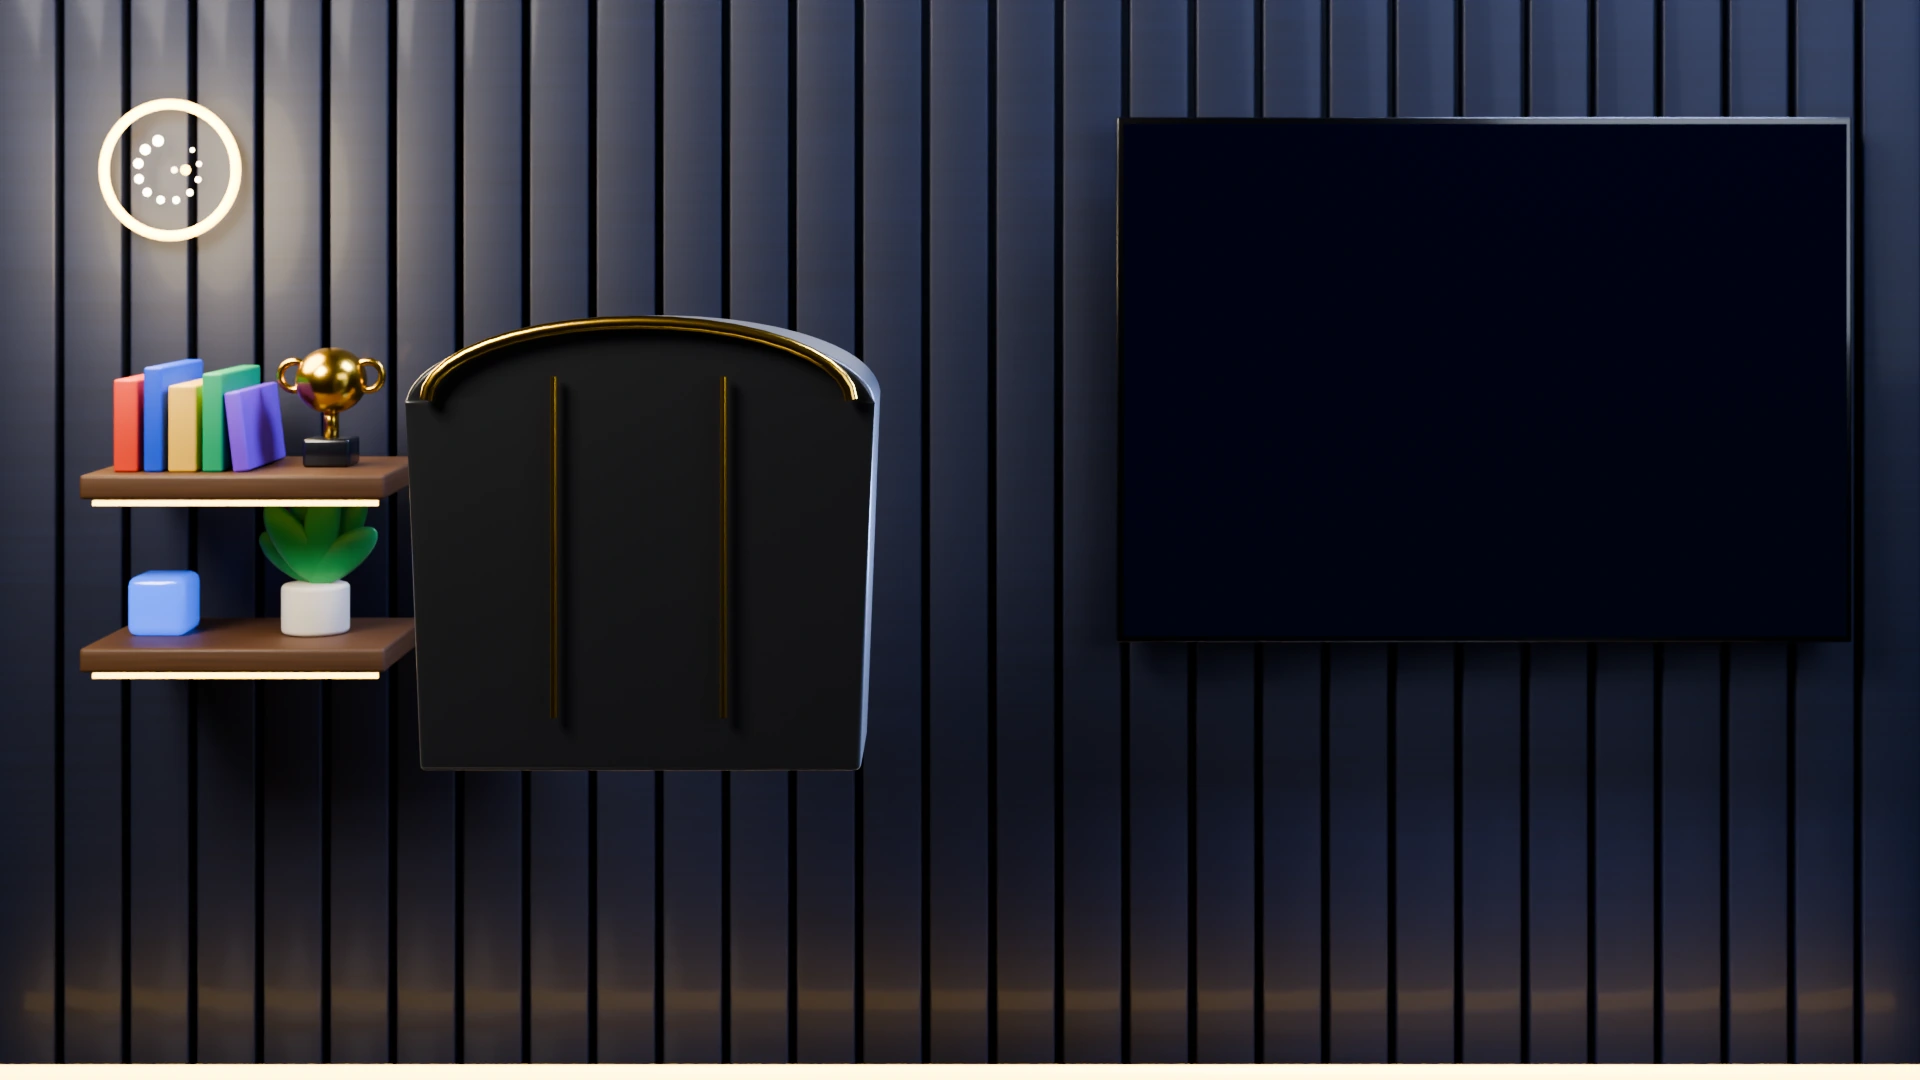
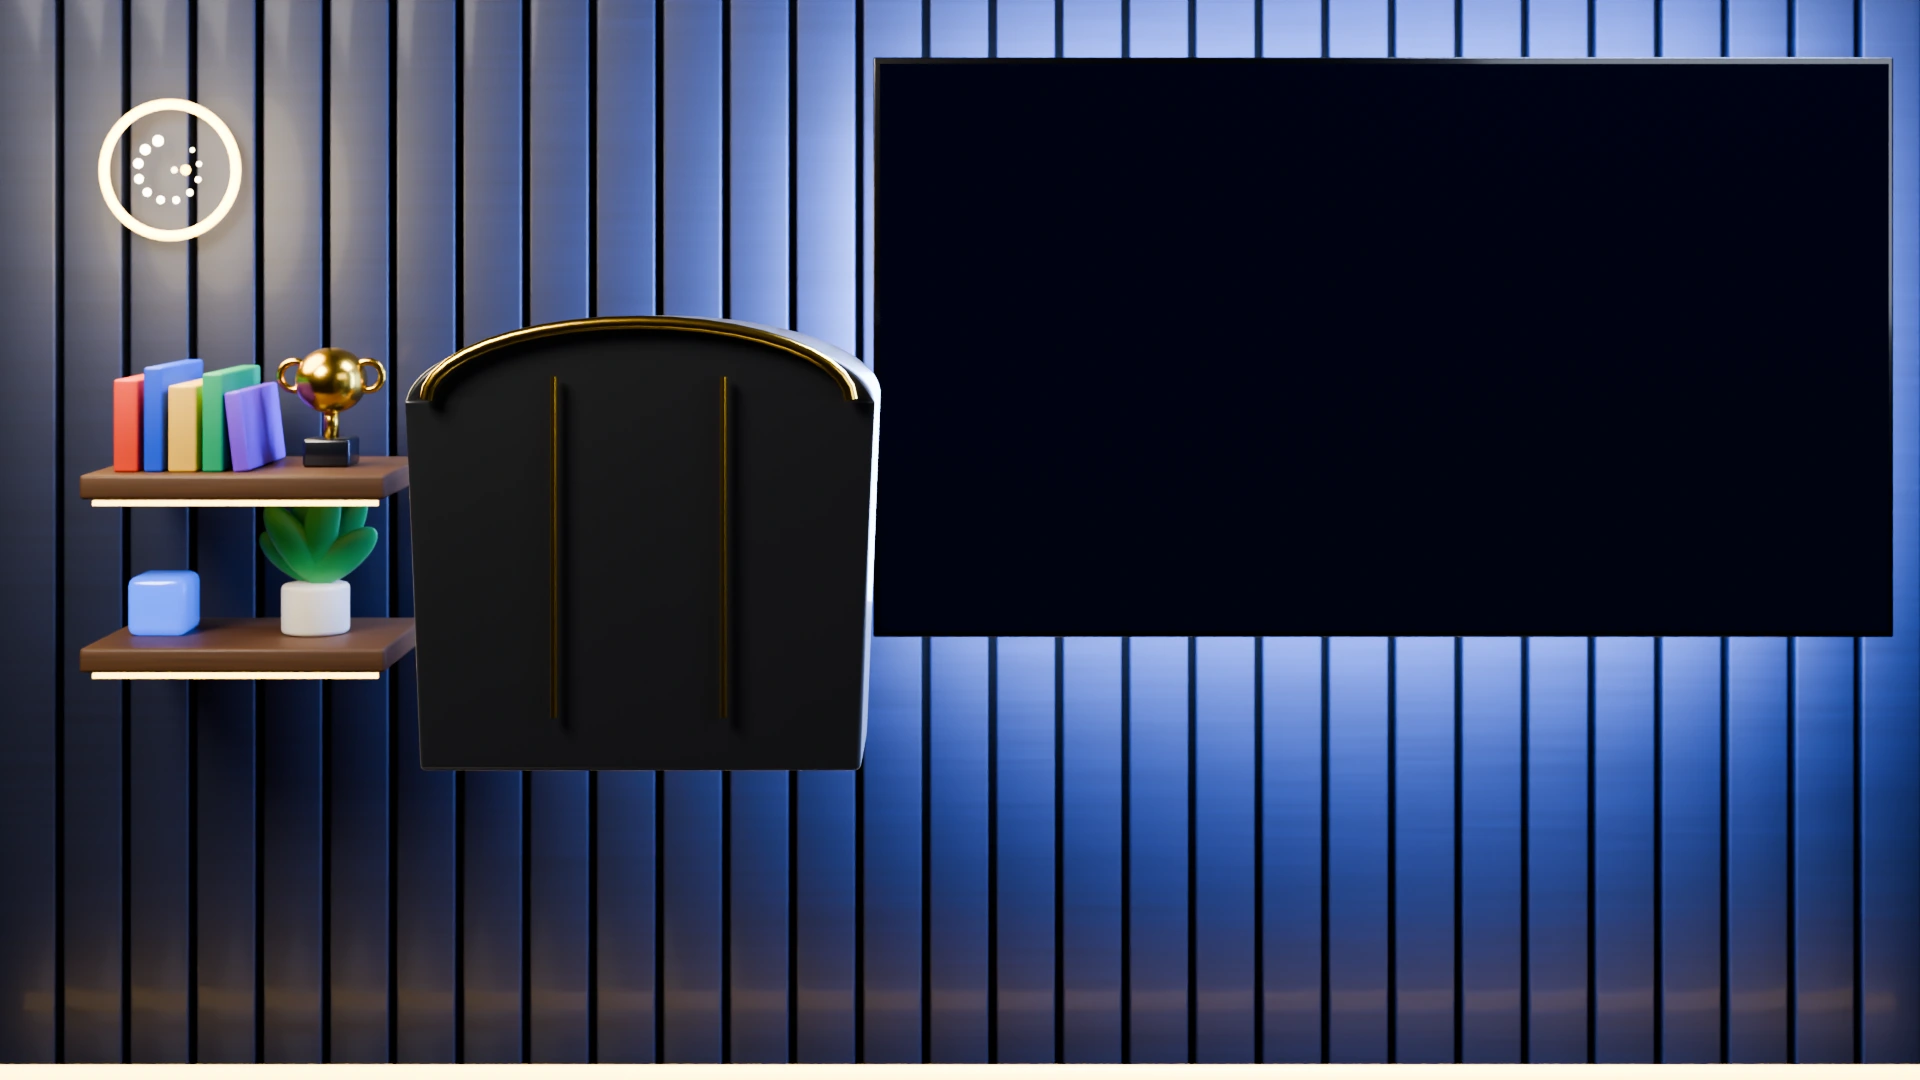
Studio (owner 2026-11-25): a wide boardroom smart screen off the wall with a neon glow behind it, pictures and words filling it; the laptop in front of Goli facing him; photo cards and metaphors keep clear of Goli; plates re-rendered
Claude-Session: https://claude.ai/code/session_012YkxsZbhC55B2CzzNBMQAJ

diff --git a/src/golide_engine/edit/compose.py b/src/golide_engine/edit/compose.py
@@ -460,6 +460,8 @@ class Composer:
         fw = 940 if self.fmt == "short" else 1300
         fh = min(fw * ratio, 760 if self.fmt == "short" else 760)
         fx, fy = (self.w - fw) / 2, (self.cy - fh / 2 - 20)
+        if self.zone and self.fmt == "long":     # Goli beside it: the card keeps to the left, clear of his arm
+            fx = 90
         img = self.asset(data["image"])
         domain = re.sub(r"^https?://(www\.)?", "", str(data.get("url", ""))).split("/")[0]
         inner = (f'<div class="frame" id="{sid}-f" style="left:{fx:.0f}px;top:{fy:.0f}px;width:{fw}px;height:{fh:.0f}px;'
@@ -911,12 +913,12 @@ class Composer:
         at = float(data.get("at", 1.0))
         args = {k: v for k, v in data.items() if k not in ("kind", "at", "goli_zone", "heading")}
         svg, tweens, cues = metaphors.DRAW[kind](sid, at, **args)
-        width = 1640 if self.fmt == "long" else 1000      # drawn large: the idea fills the proof area
+        width = (1440 if self.zone else 1640) if self.fmt == "long" else 1000     # drawn large: the idea fills the proof area
         height = width * metaphors.H / metaphors.W
         head = (f'<div class="label" style="position:absolute;left:0;right:0;top:{max(40, self.cy - height / 2 - 60):.0f}px;'
                 f'text-align:center;font-size:36px">{_e(data["heading"])}</div>') if data.get("heading") else ""
         inner = (f'{head}<svg viewBox="0 0 {metaphors.W} {metaphors.H}" width="{width}" height="{height:.0f}" '
-                 f'style="position:absolute;left:{(self.w - width) / 2:.0f}px;top:{self.cy - height / 2 + 20:.0f}px;overflow:visible">'
+                 f'style="position:absolute;left:{(60 if self.zone and self.fmt == "long" else (self.w - width) / 2):.0f}px;top:{self.cy - height / 2 + 20:.0f}px;overflow:visible">'
                  f'{svg}</svg>')
         self.scene(sid, t0, dur, inner)
         self.entrance(sid, t0, how)
@@ -1408,20 +1410,23 @@ class Composer:
         if place in ("full", "studio") and data.get("words") and data.get("outro") != "end_card" and not data.get("subscribe"):
             spans = "".join(f'<span class="word{" gold" if w_["text"].lower().strip(".,!?") == str(data.get("punch", "")).lower() else ""}" '
                             f'id="{sid}-w{i}">{_e(w_["text"])}</span>' for i, w_ in enumerate(data["words"]))
-            if place == "studio":       # the words appear on the studio's video wall
-                wx, wy, ww, wf = studio.layout(self.fmt)["words"]
-                title = (f'<div id="{sid}-scr" style="position:absolute;left:{wx}px;width:{ww}px;top:{wy}px">'
+            if place == "studio":       # the words appear on the studio's screen, filling it (owner 2026-11-25)
+                x0, y0, x1, y1 = studio.screen_rect(self.fmt)
+                wf = 92 if self.fmt == "short" else 84
+                title = (f'<div id="{sid}-scr" style="position:absolute;left:{x0 + 60:.0f}px;width:{x1 - x0 - 120:.0f}px;'
+                         f'top:{y0:.0f}px;height:{y1 - y0:.0f}px;display:flex;align-items:center">'
                          f'<div class="title" style="font-size:{wf}px;line-height:1.05">{spans}</div></div>')
             else:
                 title = (f'<div style="position:absolute;left:{self.w * 0.52:.0f}px;right:110px;top:50%;margin-top:-170px">'
                          f'<div class="title" style="font-size:96px">{spans}</div></div>')
         if place == "studio" and data.get("screen") and not title:
             # 2026-11-20 (owner): the video wall shows a real picture of the story, never an empty wall or headline
-            wx, wy, ww, wf = studio.layout(self.fmt)["words"]
+            # owner 2026-11-25: the picture fills the boardroom screen (a slim margin, so LIVE and the mark stay)
+            x0, y0, x1, y1 = studio.screen_rect(self.fmt)
             src = self.asset(data["screen"])
-            title = (f'<div id="{sid}-scr" style="position:absolute;left:{wx - 10}px;width:{ww + 20}px;top:{wy - 14}px;'
-                     f'height:{int(ww * 0.56)}px;border-radius:14px;overflow:hidden;box-shadow:0 0 0 2px rgba(232,194,104,.45)">'
-                     f'<img src="{src}" style="width:100%;height:100%;object-fit:cover"></div>')
+            title = (f'<div id="{sid}-scr" style="position:absolute;left:{x0 + 22:.0f}px;width:{x1 - x0 - 44:.0f}px;top:{y0 + 56:.0f}px;'
+                     f'height:{y1 - y0 - 100:.0f}px;border-radius:10px;overflow:hidden">'
+                     f'<img src="{src}" style="width:100%;height:100%;object-fit:cover;object-position:50% 0"></div>')
         front = (studio.front(sid, self.fmt, self.asset) if place == "studio" else studio.front(sid, "lower", self.asset)
                  if place == "lower" else "")
         floor = (studio.layout(self.fmt)["desk_y"] if place == "studio" else studio.layout("lower")["desk_y"]

diff --git a/src/golide_engine/goli3d/studio_model.py b/src/golide_engine/goli3d/studio_model.py
@@ -218,18 +218,28 @@ area("uplight", ((f0.x + f1.x) / 2, y_wall - 0.5, f0.z - 0.1), 900 if FMT != "lo
      ((f0.x + f1.x) / 2, y_wall, f0.z + 3), back_col, sy=0.2)
 
 # the video wall: a big flat TV with a slim bezel; the screen is left plain (content is laid on in the video)
+# owner 2026-11-25: a boardroom smart screen, wide and big enough that a page reads on it (the old one was a 32-inch
+# TV), standing off the wall on its mount with a neon glow behind it so it never looks stuck to the wall
+TV_PX = {"long": (880, 64, 1888, 631), "short": (40, 96, 1040, 659)}
 screen_px = None
 if LAY["wall"]:
-  x0, y0 = g("wall", 1124, 124); x1, y1 = g("wall", 1846, 636)
-  DT = DW - 0.18
+  x0, y0, x1, y1 = TV_PX[FMT]
+  DT = DW - 0.6
   a, b = P(x0, y0, DT), P(x1, y1, DT)
   cx, cz, sw, shh = (a.x + b.x) / 2, (a.z + b.z) / 2, b.x - a.x, a.z - b.z
   bez = 7 * U(DT)                          # a hairline bezel, like a current smart TV
   box((cx, CAM.y + DT + 0.03, cz), (sw + 2 * bez, 0.045, shh + 2 * bez), M["bezel"], back_col, 0.004)
   box((cx, CAM.y + DT + 0.055, cz), (sw + 2 * bez - 0.01, 0.01, shh + 2 * bez - 0.01), M["alu_dark"], back_col, 0.003)  # thin metal edge
   scr = box((cx, CAM.y + DT - 0.0, cz), (sw, 0.01, shh), M["screen"], back_col, 0)
-  box((cx, CAM.y + DT + 0.12, cz), (sw * 0.3, 0.06, shh * 0.3), M["metal"], back_col, 0.01)      # wall mount
-  halo = area("tv_halo", (cx, CAM.y + DT + 0.14, cz), 260, sw * 0.9, (0.25, 0.4, 1.0), (cx, CAM.y + DW + 1, cz), back_col, sy=shh * 0.9)
+  for sx_ in (-1, 1):                     # the mount: two arms from the wall to the screen's back
+      box((cx + sx_ * sw * 0.18, CAM.y + (DT + DW) / 2, cz), (0.06, DW - DT, 0.06), M["metal"], back_col, 0.01)
+  box((cx, CAM.y + DW - 0.03, cz), (sw * 0.42, 0.04, 0.12), M["metal"], back_col, 0.01)
+  # the neon glow behind it: a lit strip round the back edge, and its light washing the wall
+  neon = mat("tvneon", "#5E8BFF", 0.5, emit=14.0, ecolor="#4F7DFF")
+  for (bx, bz, bw, bh) in ((cx, cz + shh / 2 - 0.02, sw - 0.1, 0.025), (cx, cz - shh / 2 + 0.02, sw - 0.1, 0.025),
+                           (cx - sw / 2 + 0.02, cz, 0.025, shh - 0.1), (cx + sw / 2 - 0.02, cz, 0.025, shh - 0.1)):
+      box((bx, CAM.y + DT + 0.075, bz), (bw, 0.02, bh), neon, back_col, 0)
+  halo = area("tv_halo", (cx, CAM.y + DT + 0.12, cz), 900, sw * 0.95, (0.3, 0.45, 1.0), (cx, CAM.y + DW + 1, cz), back_col, sy=shh * 0.95)
   glow = mat("tvglow", "#3D6CFF", 0.5, emit=3.0, ecolor="#2C55E0")
   area("tv_wash", (cx, CAM.y + DT - 0.4, cz), 220, sw, (0.35, 0.5, 1.0), (cx, CAM.y + DT - 3, cz - 1.5), back_col, sy=shh)
   screen_px = [[x0, y0], [x1, y0], [x1, y1], [x0, y1]]
@@ -378,11 +388,12 @@ def desk_point(px, depth_px=0.0):
 
 # laptop: a thin MacBook-style aluminium laptop, used by Goli: the keyboard on his side, the lid's back (with our
 # glowing mark) toward the camera, turned a little toward him so the screen's edge shows
-lp = desk_point(1070 if FMT == "long" else 930, 2)
+# owner 2026-11-25: the laptop is his: in front of him, its screen facing him, the mark on its back to the camera
+lp = desk_point(640, -40)
 lw = 280 * k * du
 ld = lw * 0.68
 lid_h = lw * 0.66
-turn = math.radians(-22 if FMT == "long" else -18)
+turn = math.radians(0)
 lap = bpy.data.objects.new("laptop", None); front_col.objects.link(lap)   # built around its hinge, then placed
 
 
@@ -414,7 +425,7 @@ if SPEC.get("neon_logo"):                    # our mark glowing on the lid's bac
 lap.location = (lp.x, lp.y - ld * 0.2, lp.z)
 lap.rotation_euler = (0, 0, turn)
 # mug (left), with coffee
-mp = desk_point(880, 0) if FMT == "long" else desk_point(360, -110)
+mp = desk_point(1010, 0) if FMT == "long" else desk_point(900, -110)
 mr, mh = 39 * k * du, 96 * k * du
 cyl((mp.x, mp.y, mp.z + mh / 2), mr, mh, M["ceramic"], front_col, bevel=0.006)
 cyl((mp.x, mp.y, mp.z + mh - 0.012), mr * 0.86, 0.01, M["coffee"], front_col)

diff --git a/src/golide_engine/edit/studio.py b/src/golide_engine/edit/studio.py
@@ -72,6 +72,14 @@ def layout(fmt: str) -> dict:
     return LAYOUTS[fmt] if fmt in ("short", "lower") else LAYOUTS["long"]
 
 
+def screen_rect(fmt: str) -> tuple[float, float, float, float]:
+    """The TV screen on the frame (x0, y0, x1, y1), from the rendered set (owner 2026-11-25: the boardroom screen)."""
+    m = plates("short" if fmt == "short" else "long") or {}
+    pts = m.get("screen") or [[1124, 124], [1846, 124], [1846, 636], [1124, 636]]
+    xs, ys = [p[0] for p in pts], [p[1] for p in pts]
+    return min(xs), min(ys), max(xs), max(ys)
+
+
 def lower_back(sid: str, asset=None) -> str:
     """The Short's lower third: a slice of the studio behind Goli while the proof plays on top."""
     m = need("lower")
@@ -112,14 +120,14 @@ def back3d(sid: str, fmt: str, m: dict, asset) -> str:
     """The 3D set behind Goli, with the TV's live content (chart, bars, LIVE) drawn on its screen."""
     L = layout(fmt)
     W, H = L["w"], L["h"]
-    g = 'transform="translate({} {}) scale({})"'.format(*L["wall"])
     # owner 2026-11-25: no decoration chart on the TV ("that nonsensical graph that has no meaning"): only LIVE and
     # the logo; the screen itself shows the real thing being said (editor._screen_pictures)
+    x0, y0, x1, y1 = screen_rect(fmt)
     screen = (f'<svg viewBox="0 0 {W} {H}" width="{W}" height="{H}" style="position:absolute;left:0;top:0">'
-              f'<g {g}><g id="{sid}-wall">'
-              f'<circle cx="1160" cy="160" r="7" fill="#E8462F"/><text x="1176" y="167" font-family="Inter" font-weight="600" '
-              f'font-size="20" fill="#E8462F">LIVE</text>{logo_mark(1806, 594, 40, "#8FA0C8", "#F2C14E")}'
-              f'</g></g><g id="{sid}-neon"></g></svg>')
+              f'<g id="{sid}-wall">'
+              f'<circle cx="{x0 + 30}" cy="{y0 + 30}" r="7" fill="#E8462F"/><text x="{x0 + 46}" y="{y0 + 37}" font-family="Inter" '
+              f'font-weight="600" font-size="20" fill="#E8462F">LIVE</text>{logo_mark(x1 - 36, y1 - 36, 34, "#8FA0C8", "#F2C14E")}'
+              f'</g><g id="{sid}-neon"></g></svg>')
     return _img(PLATES / fmt / "back.webp", [0, 0], asset, W, H) + screen
 
 

diff --git a/CLAUDE.md b/CLAUDE.md
@@ -47,6 +47,13 @@ Owner: Esiah (Lusaka, UTC+2). Direct, no sugar-coating. Studio: studio.golidee.c
   showing gets its own look and view (`editor._object_variety`, glass3d.js screen). Other objects need their name said.
 - Broken screens (owner 2026-11-25): a captured page whose styles did not load, an error/block/bot page, broken
   pictures or a near-empty page is never used (`source_capture.broken_page`); another block takes the beat.
+- Studio set (owner 2026-11-25): a wide boardroom smart screen standing off the wall on its mount with a neon glow behind
+  it (`goli3d/studio_model.py` TV_PX, plates rendered locally or by goli3d-library.yml kind=studio); pictures and
+  words fill it (`studio.screen_rect`). The laptop is in front of Goli, its screen facing him.
+- Shorts = long videos in 9:16 (owner 2026-11-25: "the only difference is framing"): the same blocks and flow; the
+  proof on top, captions under it, Goli standing below (`place: side`), never the desk-and-TV as the default.
+- Chapter cards (owner 2026-11-25): leave the moment their stage is named (1-2 s, `editor._chapter_end`), smooth exit.
+- Small neon edge on photo cards, steps on a page and the logo dock (owner 2026-11-25).
 - Don't poll or babysit long runs; it burns the owner's usage.
 - Never start with limits. Build the general capability the owner asks for, not a fixed short list.
 
@@ -211,4 +218,4 @@ best unmodelled video of the last 45 days, no numbers bar. The channel's style i
   automatic runs never switch paid ones on. Real people stay real photo cards, never puppets.
 
 ## Checks
-`python3 -m pytest -q` must pass before every push (679 tests as of 2026-11-24).
+`python3 -m pytest -q` must pass before every push (686 tests as of 2026-11-25).
